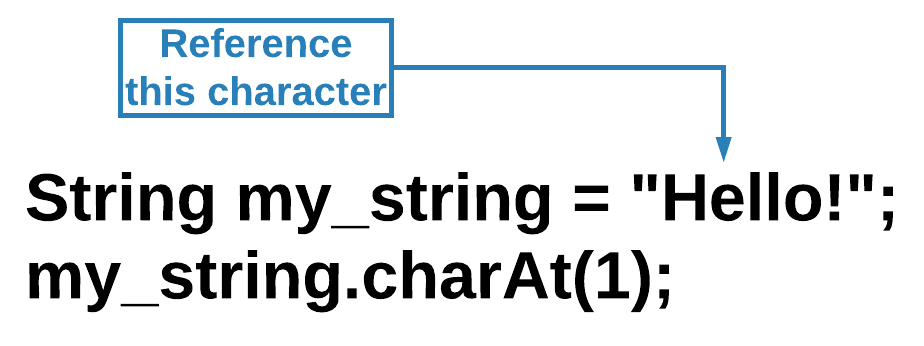
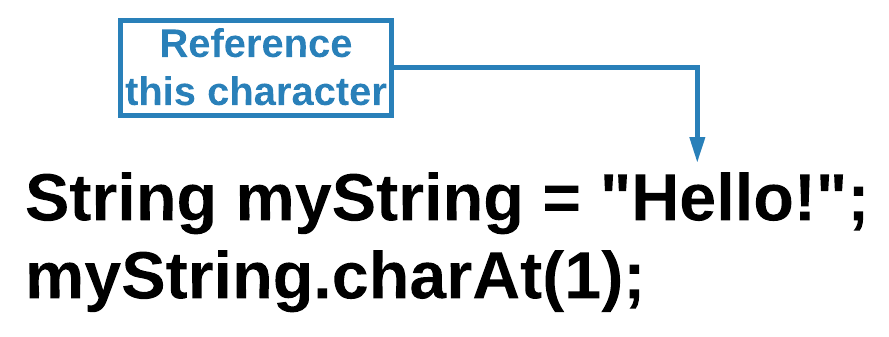
changed image files

Changed region(s): [[0.0304, 0.4748, 0.9719, 0.9496], [0.1215, 0.0297, 0.7897, 0.4748]]

diff --git a/.guides/content/Immutability-1ffb.md b/.guides/content/Immutability-1ffb.md
@@ -5,9 +5,9 @@
 You now know how to reference each character of a string. What do you think the code below will do?
 
 ```java
-String my_string = "House";
-my_string.charAt(0) = "M";
-System.out.println(my_string);
+String myString = "House";
+myString.charAt(0) = "M";
+System.out.println(myString);
 ```
 
 {Try it}(sh .guides/bg.sh javac code/strings/Immutability.java java -cp code/strings/ Immutability 1)
@@ -19,9 +19,9 @@ If you thought the code above would print `Mouse`, that would be a logical guess
 The code below works just fine. Isn't this an example of changing the value of a string?
 
 ```java
-String my_string = "House";
-my_string = "Mouse";
-System.out.println(my_string);
+String myString = "House";
+myString = "Mouse";
+System.out.println(myString);
 ```
 
 {Try it}(sh .guides/bg.sh javac code/strings/Immutability.java java -cp code/strings/ Immutability 2)
